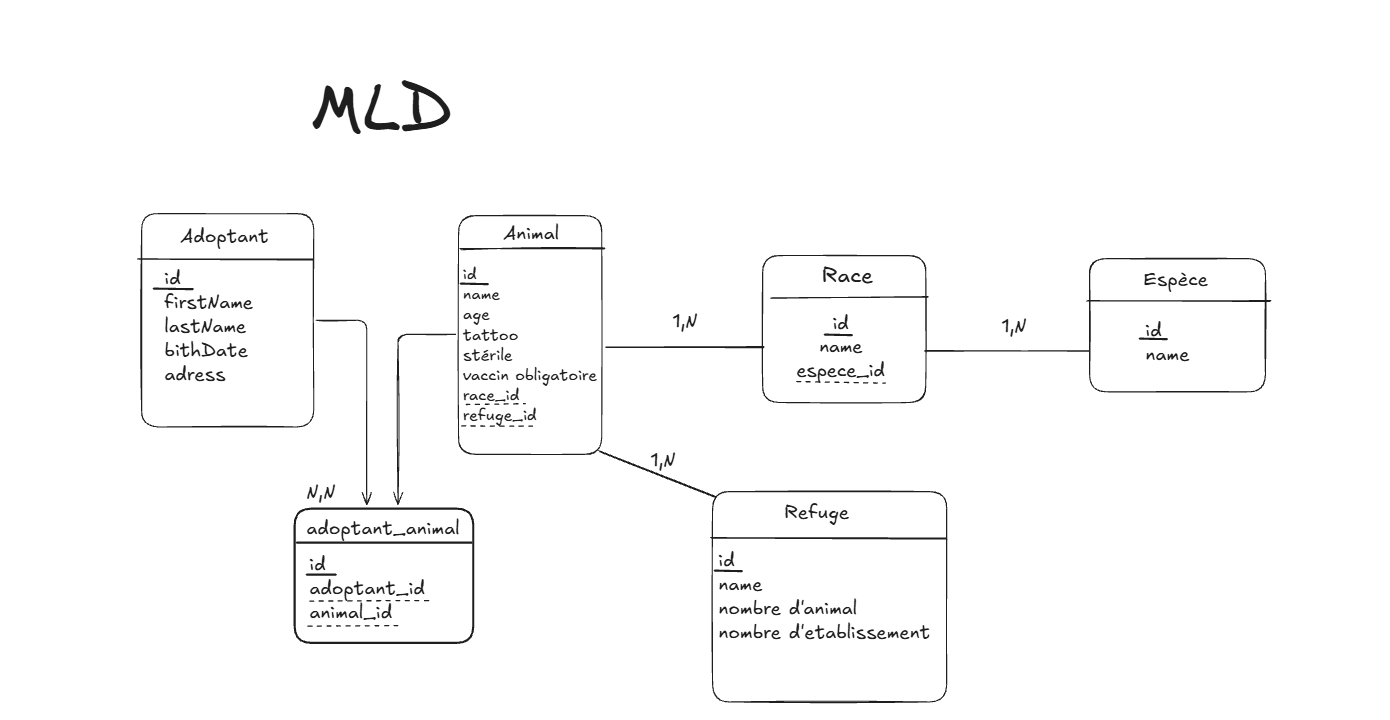
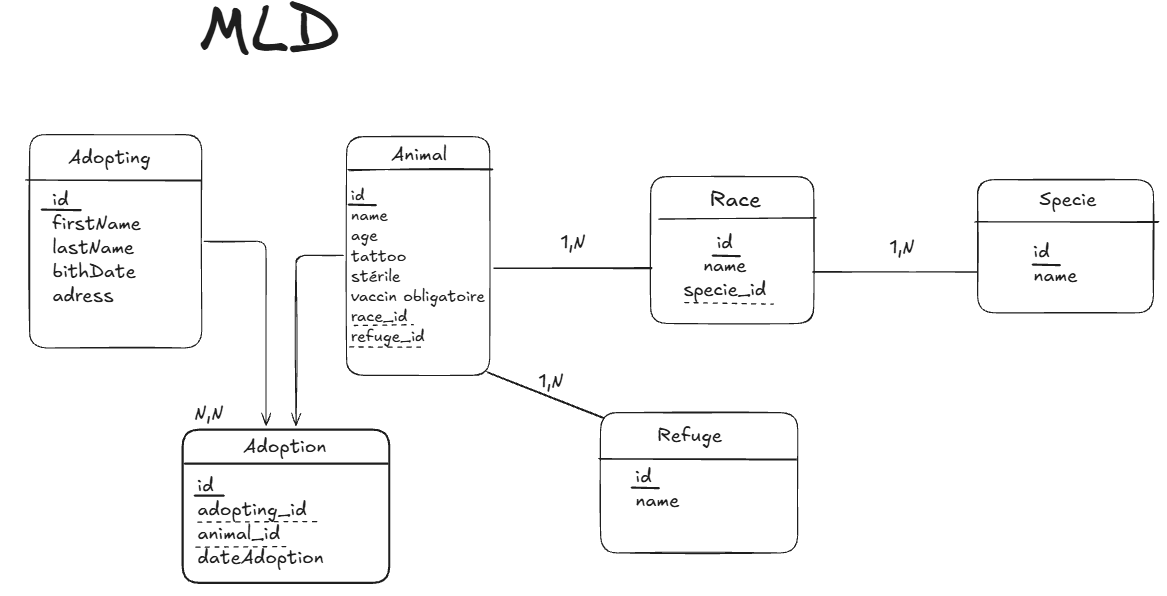
modifieds images SPA-MCD and SPA-MLD

diff --git a/read.md b/read.md
@@ -66,4 +66,8 @@ PS: a partir de cette exercices j'ai mieux compris la cardinalité. Le liens de 
 
    Pas de difficulté rencontrée. Règle du OneToMany : La clé primaire de l'entité côté N devient clé étrangère dans l'entité côté 1.
 
+   J'ai ajouter une date adoption dans ma table Adoption.
+
+   J'ai essayer de traduire a max en anglais, mais je suis pas sur pour vaccin et dateAdoption.
+
    ![image](SPA-MLD.png)
